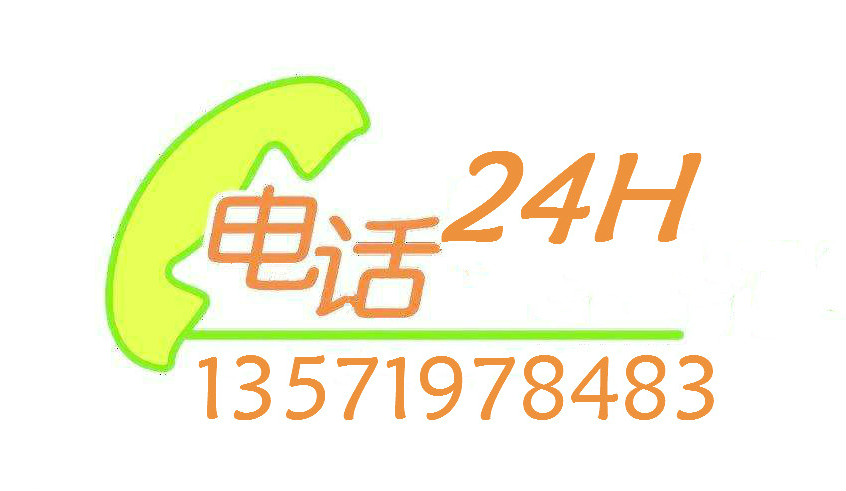
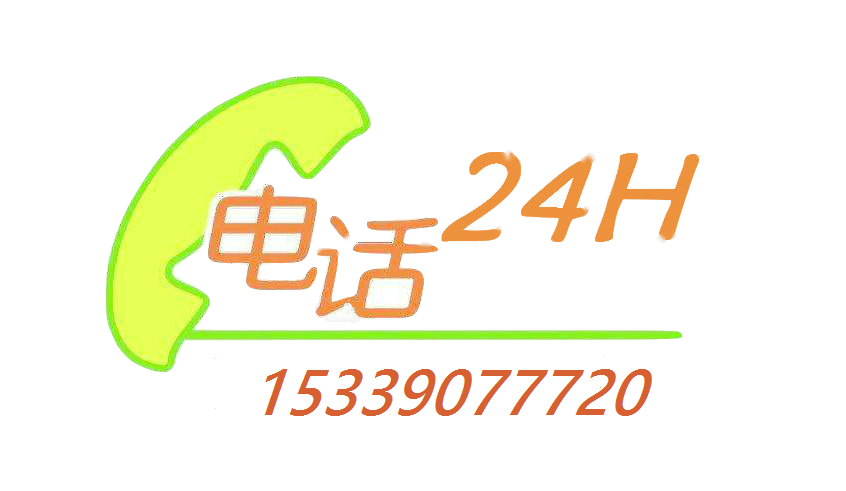
修改手机号码

diff --git a/index.html b/index.html
@@ -52,7 +52,6 @@
             <li><a href="#duxt_new">最新消息</a></li>
             <li><a href="#duxt_new">行业动态</a></li>
             <li><a href="aboutus.html">联系我们</a></li>
-             <!--<li>24小时热线：13571978483</li>-->
         </ul>
         <ul class="menu-right1 pull-left">
             <li>每时每刻臻心服务</li>
@@ -95,7 +94,7 @@
                             <div class="slider-content text-left">
                                 <h2 class="first-animation" style="position: relative;margin-top:10px;margin-left:40px;" >陕西蓝田县苗木合作社</h2>
                                 <h3 class="second-animation"> <img src="images/home1/tel02.png">24小时热线:</h3>
-                                <h3 class="second-animation" style="margin-left:-20px;" >13571978483</h3>
+                                <h3 class="second-animation" style="margin-left:-20px;" >15339077720</h3>
                                 <a href="#" class="bordered-button fourth-animation">了解更多<i class="fa fa-long-arrow-right"></i></a>
                             </div>
                         </div>
@@ -110,7 +109,7 @@
                             <div class="slider-content text-left">
                                 <h2 class="first-animation" style="position: relative;margin-top:10px;margin-left:40px;" >陕西蓝田县苗木合作社</h2>
                                 <h3 class="second-animation"> <img src="images/home1/tel02.png">24小时热线:</h3>
-                                <h3 class="second-animation" style="margin-left:-20px;" >13571978483</h3>
+                                <h3 class="second-animation" style="margin-left:-20px;" >15339077720</h3>
                                 <a href="#" class="bordered-button fourth-animation">了解更多<i class="fa fa-long-arrow-right"></i></a>
                             </div>
                         </div>
@@ -125,7 +124,7 @@
                             <div class="slider-content text-left">
                                 <h2 class="first-animation" style="position: relative;margin-top:10px;margin-left:40px;" >陕西蓝田县苗木合作社</h2>
                                 <h3 class="second-animation"> <img src="images/home1/tel02.png">24小时热线:</h3>
-                                <h3 class="second-animation" style="margin-left:-20px;" >13571978483</h3>
+                                <h3 class="second-animation" style="margin-left:-20px;" >15339077720</h3>
                                 <a href="#" class="bordered-button fourth-animation">了解更多<i class="fa fa-long-arrow-right"></i></a>
                             </div>
                         </div>
@@ -160,7 +159,7 @@
                     <div class="product-details">
                         <div class="product-img">
                             <img src="images/home1/shop1.jpg" alt="">
-                            <a href="#" class="filled-button">Tel:13571978483</a>
+                            <a href="#" class="filled-button">Tel:15339077720</a>
                         </div>
                         <!--<h4><a href="#">陕西蓝田县苗木合作社</a></h4>-->
                     </div>
@@ -169,7 +168,7 @@
                     <div class="product-details">
                         <div class="product-img">
                             <img src="images/home1/shop2.jpg" alt="">
-                            <a href="#" class="filled-button">Tel:13571978483</a>
+                            <a href="#" class="filled-button">Tel:15339077720</a>
                         </div>
                         <!--<h4><a href="#">陕西蓝田县苗木合作社</a></h4>-->
                     </div>
@@ -179,7 +178,7 @@
                     <div class="product-details">
                         <div class="product-img">
                             <img src="images/home1/shop3.jpg" alt="">
-                            <a href="#" class="filled-button">Tel:13571978483</a>
+                            <a href="#" class="filled-button">Tel:15339077720</a>
                         </div>
                         <!--<h4><a href="#">陕西蓝田县苗木合作社</a></h4>-->
                     </div>
@@ -188,7 +187,7 @@
                     <div class="product-details">
                         <div class="product-img">
                             <img src="images/home1/shop4.jpg" alt="">
-                            <a href="#" class="filled-button">Tel:13571978483</a>
+                            <a href="#" class="filled-button">Tel:15339077720</a>
                         </div>
                         <!--<h4><a href="#">陕西蓝田县苗木合作社</a></h4>-->
                     </div>
@@ -197,7 +196,7 @@
                     <div class="product-details">
                         <div class="product-img">
                             <img src="images/home1/shop5.jpg" alt="">
-                            <a href="#" class="filled-button">Tel:13571978483</a>
+                            <a href="#" class="filled-button">Tel:15339077720</a>
                         </div>
                         <!--<h4><a href="#">陕西蓝田县苗木合作社</a></h4>-->
                     </div>
@@ -206,7 +205,7 @@
                     <div class="product-details">
                         <div class="product-img">
                             <img src="images/home1/shop6.jpg" alt="">
-                            <a href="#" class="filled-button">Tel:13571978483</a>
+                            <a href="#" class="filled-button">Tel:15339077720</a>
                         </div>
                         <!--<h4><a href="#">陕西蓝田县苗木合作社</a></h4>-->
                     </div>
@@ -215,7 +214,7 @@
                     <div class="product-details">
                         <div class="product-img">
                             <img src="images/home1/shop7.jpg" alt="">
-                            <a href="#" class="filled-button">Tel:13571978483</a>
+                            <a href="#" class="filled-button">Tel:15339077720</a>
                         </div>
                         <!--<h4><a href="#">陕西蓝田县苗木合作社</a></h4>-->
                     </div>

diff --git a/aboutus.html b/aboutus.html
@@ -145,11 +145,11 @@
                             </article>
                             <article class="widget-post">
                                 <h5>电    话</h5>
-                                <a  >13571978486</a>
+                                <a  >15339077720</a>
                             </article>
                             <article class="widget-post">
                                 <h5>微信同手机号</h5>
-                                <a  >13571978486</a>
+                                <a  >15339077720</a>
                             </article>
                             <article class="widget-post">
                                 <h5>邮    箱</h5>
